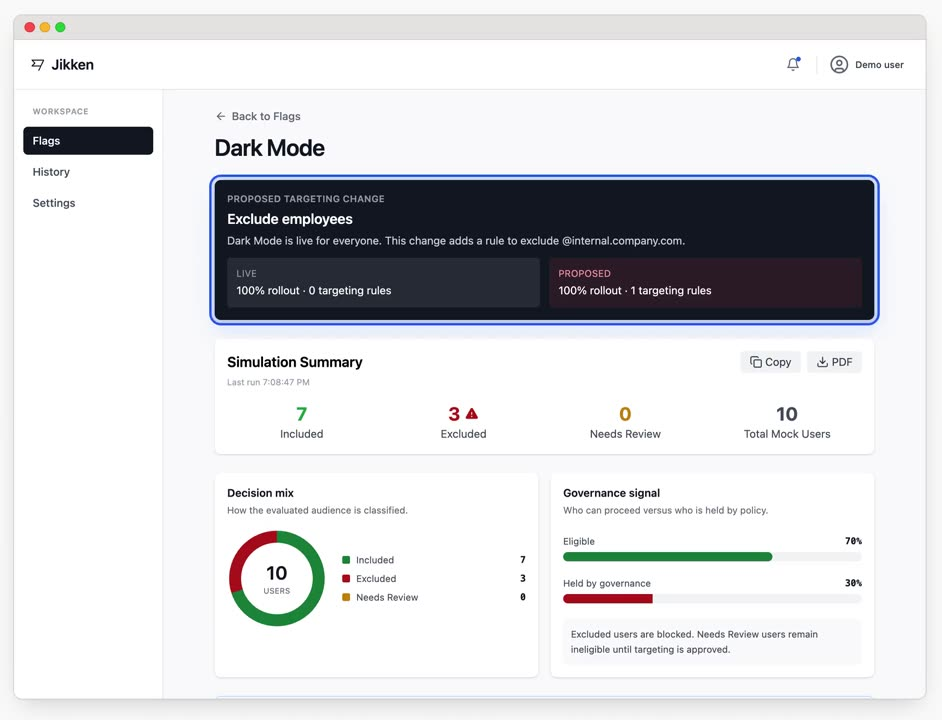
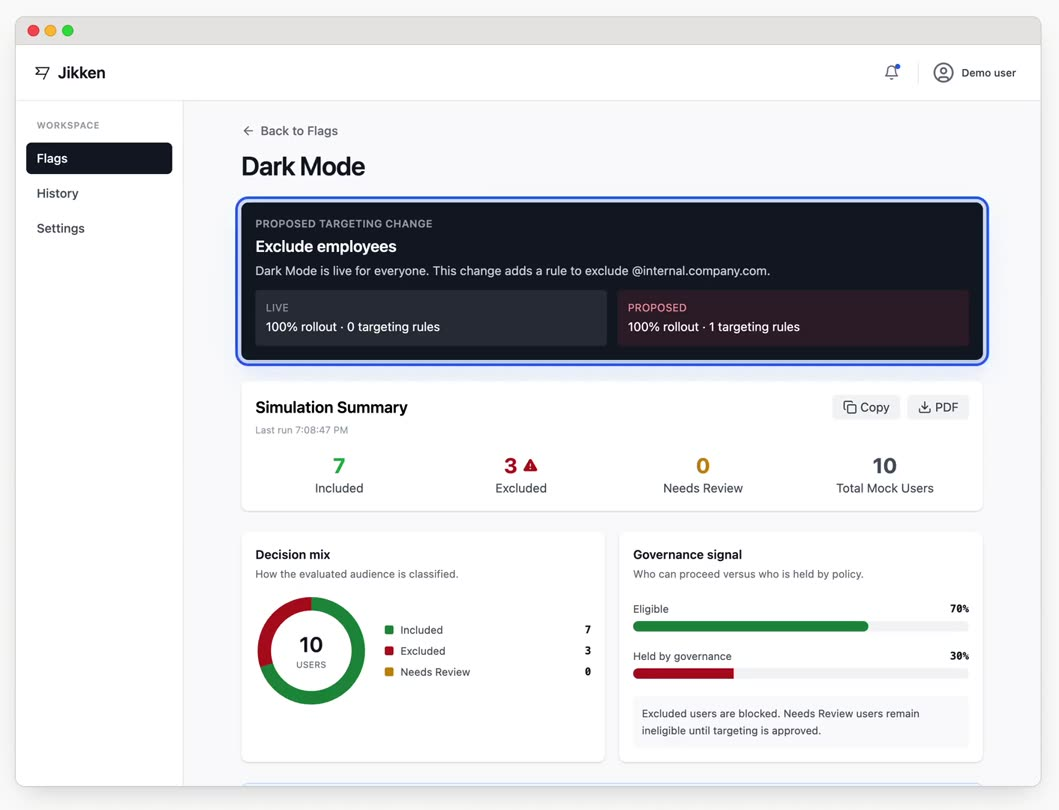
Normalize walkthrough media without letterboxing

diff --git a/presentation/src/shell/tabs/OverviewTab.tsx b/presentation/src/shell/tabs/OverviewTab.tsx
@@ -62,14 +62,14 @@ export function OverviewTab({
 
       {videoOpen && (
         <div role="presentation" onMouseDown={(event) => { if (event.target === event.currentTarget) setVideoOpen(false); }} style={{ position: 'fixed', inset: 0, zIndex: 20_000, display: 'grid', placeItems: 'center', padding: '1.5rem', background: 'rgba(12, 10, 9, 0.78)' }}>
-          <div role="dialog" aria-modal="true" aria-labelledby="walkthrough-video-title" style={{ width: 'min(1100px, 94vw, calc((92vh - 64px) * 1211 / 926))', padding: '0.75rem', borderRadius: '0.75rem', background: '#1c1917', boxShadow: '0 24px 80px rgba(0, 0, 0, 0.5)' }}>
+          <div role="dialog" aria-modal="true" aria-labelledby="walkthrough-video-title" style={{ width: 'min(1100px, 94vw, calc((92vh - 64px) * 353 / 270))', padding: '0.75rem', borderRadius: '0.75rem', background: '#1c1917', boxShadow: '0 24px 80px rgba(0, 0, 0, 0.5)' }}>
             <div style={{ display: 'flex', alignItems: 'center', justifyContent: 'space-between', gap: '1rem', padding: '0.15rem 0.15rem 0.7rem 0.35rem', color: '#fafaf9' }}>
               <div id="walkthrough-video-title" style={{ fontSize: '0.85rem', fontWeight: 'var(--font-weight-semibold)' }}>Jikken product walkthrough · 83 sec</div>
               <button type="button" autoFocus onClick={() => setVideoOpen(false)} aria-label="Close walkthrough video" style={{ display: 'grid', placeItems: 'center', width: 30, height: 30, padding: 0, border: '1px solid #57534e', borderRadius: '0.4rem', background: '#292524', color: '#fafaf9', cursor: 'pointer' }}>
                 <X size={16} />
               </button>
             </div>
-            <video autoPlay controls playsInline preload="metadata" poster="/media/jikken-walkthrough-poster.jpg" style={{ display: 'block', width: '100%', aspectRatio: '1211 / 926', objectFit: 'contain', borderRadius: '0.45rem', background: '#000' }} aria-label="Narrated Jikken product walkthrough">
+            <video autoPlay controls playsInline preload="metadata" poster="/media/jikken-walkthrough-poster.jpg" style={{ display: 'block', width: '100%', aspectRatio: '353 / 270', objectFit: 'contain', borderRadius: '0.45rem', background: '#000' }} aria-label="Narrated Jikken product walkthrough">
               <source src="/media/jikken-walkthrough.mp4" type="video/mp4" />
               Your browser does not support embedded video. <a href="/media/jikken-walkthrough.mp4">Open the walkthrough video</a>.
             </video>

diff --git a/presentation/src/pages/Walkthrough.tsx b/presentation/src/pages/Walkthrough.tsx
@@ -31,7 +31,7 @@ export default function Walkthrough() {
         </section>
 
         <div style={{ padding: 'clamp(0.45rem, 1vw, 0.75rem)', border: '1px solid var(--portfolio-border)', borderRadius: '0.9rem', background: '#1c1917', boxShadow: '0 24px 70px rgba(28, 25, 23, 0.18)' }}>
-          <video controls playsInline preload="metadata" poster="/media/jikken-walkthrough-poster.jpg" style={{ display: 'block', width: '100%', aspectRatio: '1211 / 926', objectFit: 'contain', borderRadius: '0.55rem', background: '#000' }} aria-label="Narrated Jikken product walkthrough">
+          <video controls playsInline preload="metadata" poster="/media/jikken-walkthrough-poster.jpg" style={{ display: 'block', width: '100%', aspectRatio: '353 / 270', objectFit: 'contain', borderRadius: '0.55rem', background: '#000' }} aria-label="Narrated Jikken product walkthrough">
             <source src="/media/jikken-walkthrough.mp4" type="video/mp4" />
             Your browser does not support embedded video. <a href="/media/jikken-walkthrough.mp4">Open the walkthrough video</a>.
           </video>